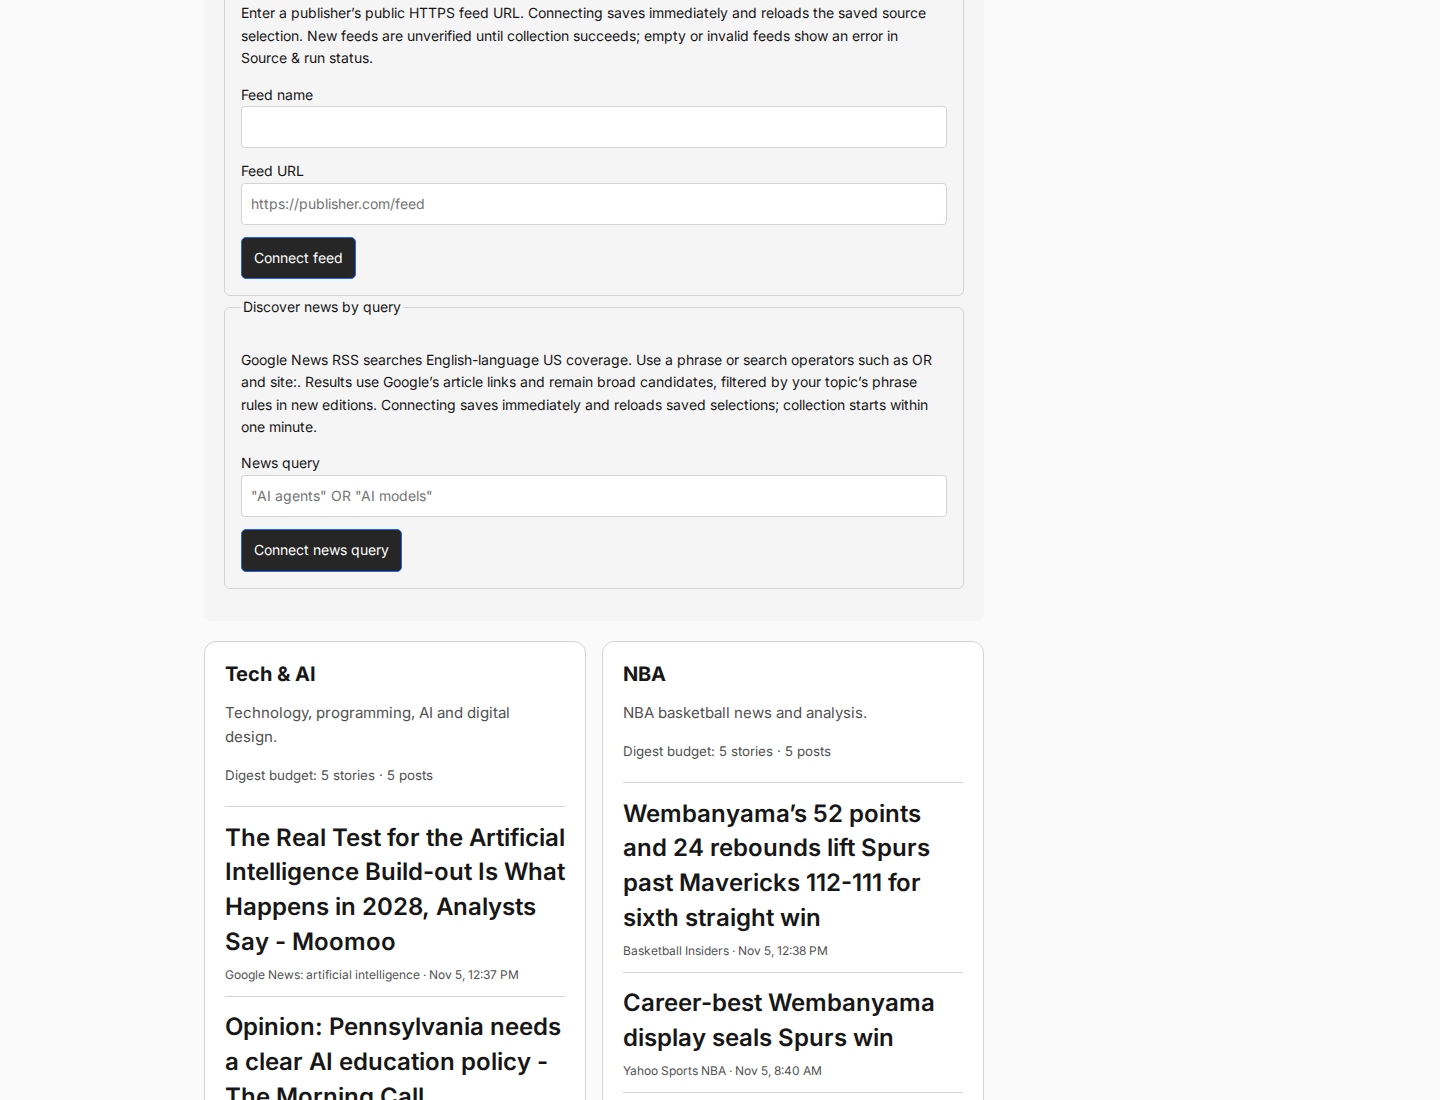
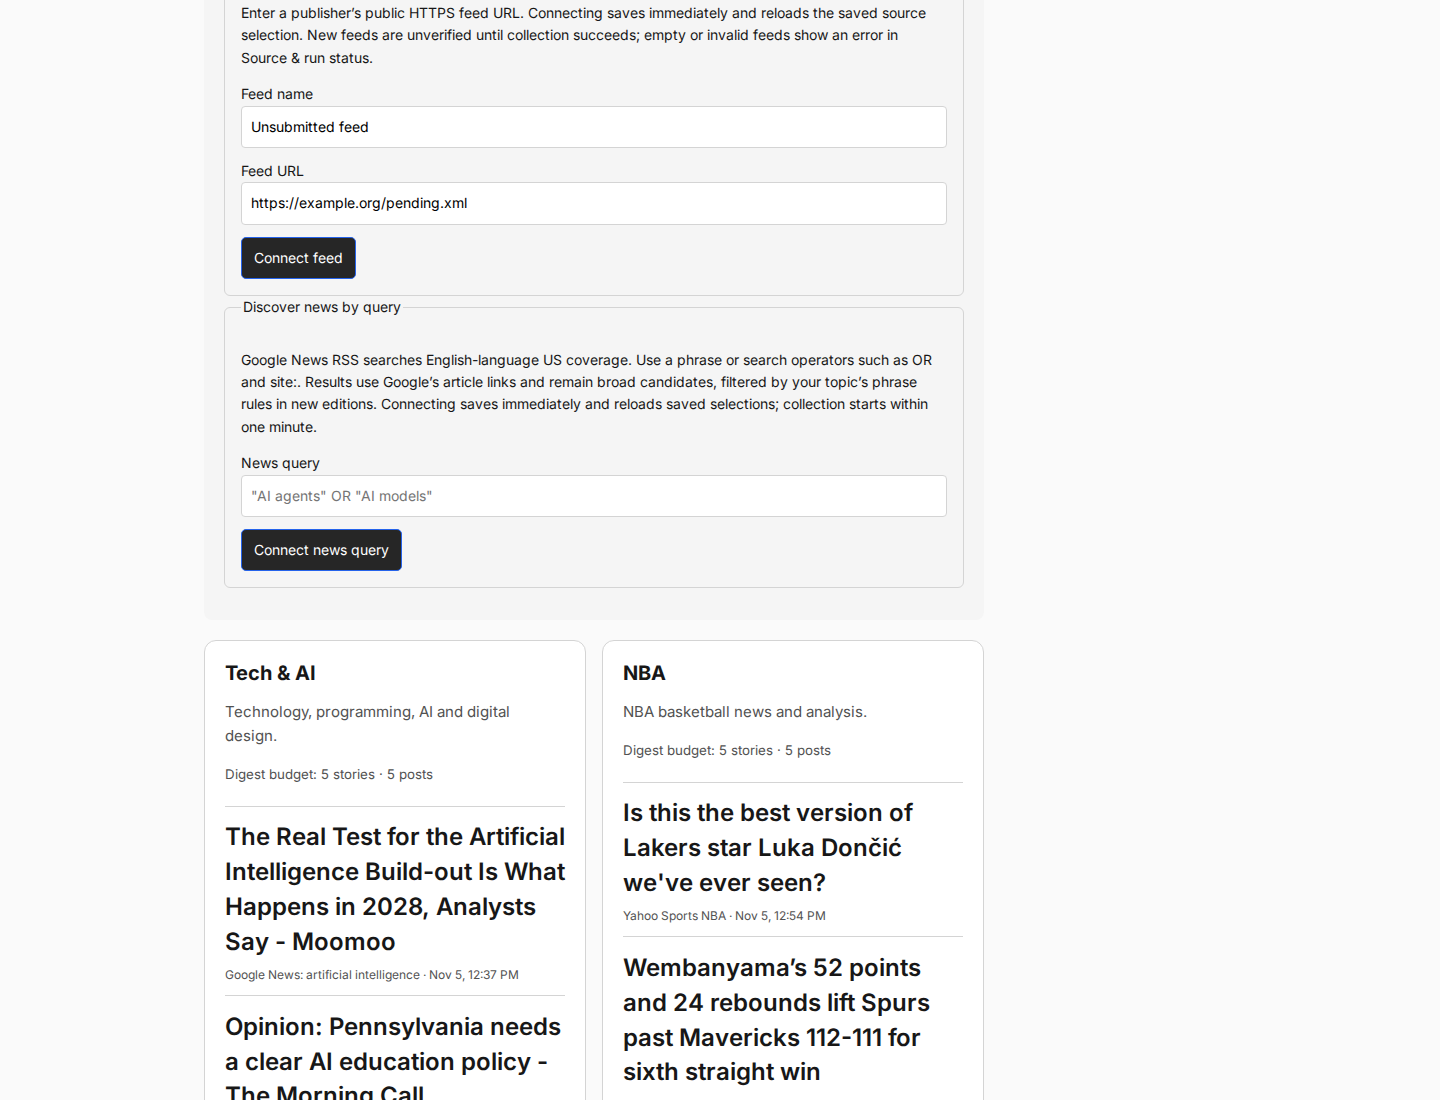
Preserve unrelated drafts when connecting topic sources

diff --git a/scripts/smoke-custom-feeds.ts b/scripts/smoke-custom-feeds.ts
@@ -323,6 +323,9 @@ async function smoke() {
         path: `docs/screenshots/custom-feeds-failure-${device}.png`,
       });
       fail = false;
+      await newsQuery
+        .getByLabel('News query', { exact: true })
+        .fill('unfinished query');
       await connect.click();
       await page
         .getByRole('status')
@@ -332,6 +335,10 @@ async function smoke() {
         .waitFor({ timeout: 20_000 });
       assert.equal(await name.inputValue(), '');
       assert.equal(await url.inputValue(), '');
+      assert.equal(
+        await newsQuery.getByLabel('News query', { exact: true }).inputValue(),
+        'unfinished query',
+      );
       const checkbox = form.getByRole('checkbox', {
         name: `${source.name} Feed`,
         exact: true,
@@ -485,6 +492,8 @@ async function smoke() {
       );
 
       queryTimeout = false;
+      await name.fill('Unsubmitted feed');
+      await url.fill('https://example.org/pending.xml');
       queryFailure = true;
       await queryInput.fill('basketball OR playoffs');
       await connectQuery.click();
@@ -507,6 +516,8 @@ async function smoke() {
         })
         .waitFor({ timeout: 20_000 });
       assert.equal(await queryInput.inputValue(), '');
+      assert.equal(await name.inputValue(), 'Unsubmitted feed');
+      assert.equal(await url.inputValue(), 'https://example.org/pending.xml');
       assert.ok(await checkbox.isChecked());
       await page
         .getByRole('button', { name: 'Retry loading sources', exact: true })
@@ -527,6 +538,8 @@ async function smoke() {
       assert.ok(await connectQuery.isEnabled());
       assert.ok(await checkbox.isChecked());
       assert.equal(writes, 11, 'Confirmed query sends exactly one POST');
+      assert.equal(await name.inputValue(), 'Unsubmitted feed');
+      assert.equal(await url.inputValue(), 'https://example.org/pending.xml');
       await queryInput.scrollIntoViewIfNeeded();
       await page.screenshot({
         path: `docs/screenshots/ui/news-query-connected-${device}.png`,

diff --git a/apps/web/src/TopicSources.tsx b/apps/web/src/TopicSources.tsx
@@ -105,9 +105,12 @@ export function TopicSources({
       connected = true;
       onSaved(saved);
       setSelected(saved.sources);
-      setFeedName('');
-      setFeedUrl('');
-      setQuery('');
+      if (search) {
+        setQuery('');
+      } else {
+        setFeedName('');
+        setFeedUrl('');
+      }
       const catalogResponse = await fetch('/api/topics/sources', {
         signal: AbortSignal.timeout(15_000),
       });

diff --git a/PROGRESS.md b/PROGRESS.md
@@ -155,3 +155,13 @@
 - Browser writes replayed; protected live topics/profile/full edition unchanged. No paid calls or live data writes. API rebuilt/restarted; health green, reader latest has four topics and alerts clear; worker/schedule unchanged.
 - TASKS updated; handbook/SOURCES/NEEDS_FROM_HUMAN unchanged (copy and verification only, no new blocker).
 - Next FIRST: Nov 5 15:00 UTC NBA/grouping/cost/latency review, fallback before scorer; X rounds after 21:00 UTC Nov 5/6. Admin identity/proxy verification remains pending.
+
+## 2026-11-05: iteration 834 — preserve independent source drafts
+
+- Started clean on main; no leftover work. Health/database/Redis green and alerts clear; Nov 5 scheduled review remains due at 15:00 UTC.
+- Fixed successful feed/query connections clearing the other form's unfinished draft. Only the submitted form now clears, including when the subsequent catalog refresh fails.
+- Desktop/mobile replay verifies feed-save preserves query and query-save preserves feed name/URL through refresh failure and success. Updated desktop connected screenshot inspected; mobile screenshot inspected (unchanged). Unrelated regenerated screenshots discarded.
+- Verification: pnpm format; pnpm lint:fix; pnpm build; pnpm check (497 unit/214 isolated integration, zero failures); smoke-custom-feeds.ts and smoke-admin-gate.ts exit 0; git diff --check.
+- Browser writes replayed; protected live topics/profile/full edition unchanged. No paid calls or live data writes. Rebuilt API restarted; health green and alerts clear; worker/schedule unchanged.
+- TASKS updated; handbook/SOURCES/NEEDS_FROM_HUMAN unchanged (form-state bug fix, no new blocker).
+- Next FIRST: Nov 5 15:00 UTC NBA/grouping/cost/latency review, fallback before scorer; X rounds after 21:00 UTC Nov 5/6. Admin identity/proxy verification remains pending.

diff --git a/TASKS.md b/TASKS.md
@@ -45,6 +45,8 @@ STEERING overrides older milestone notes; implementation history is in PROGRESS.
 
 ## Done markers
 
+- [x] Independent source drafts (834): connecting a feed preserves an unfinished news query; connecting a query preserves feed name/URL, including confirmed-save catalog failures. Desktop/mobile replay passes.
+
 - [x] Query connection feedback (833): news-query success, rejection, refresh failure and timeout name the query; desktop/mobile replay verifies retained/cleared input and no repeated POST on catalog retry.
 
 - [x] News-query recovery verification (832): desktop/mobile replay covers a completed query POST timing out, retained input, unlocked controls and reload recovery without a second POST.
